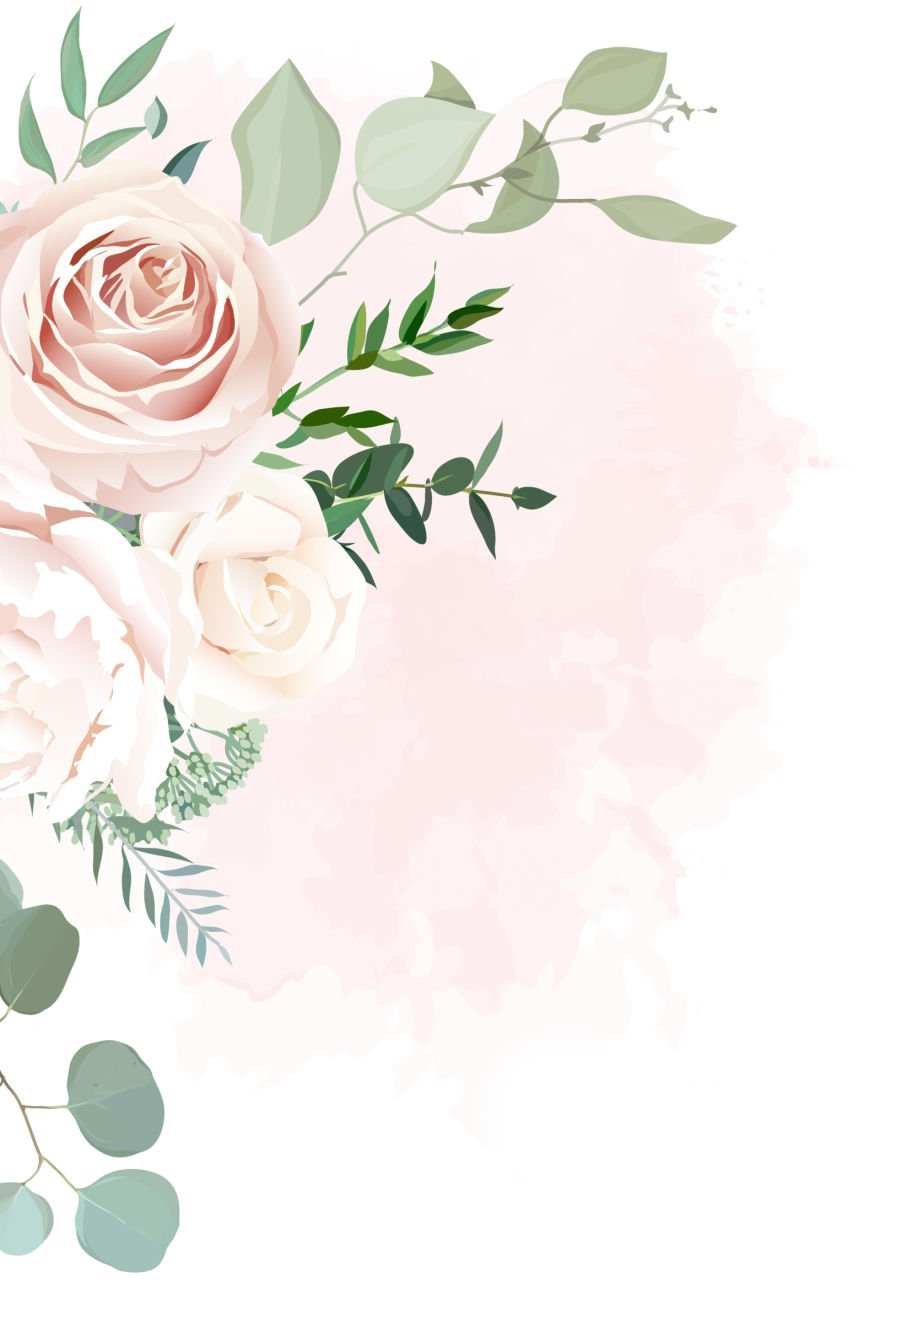
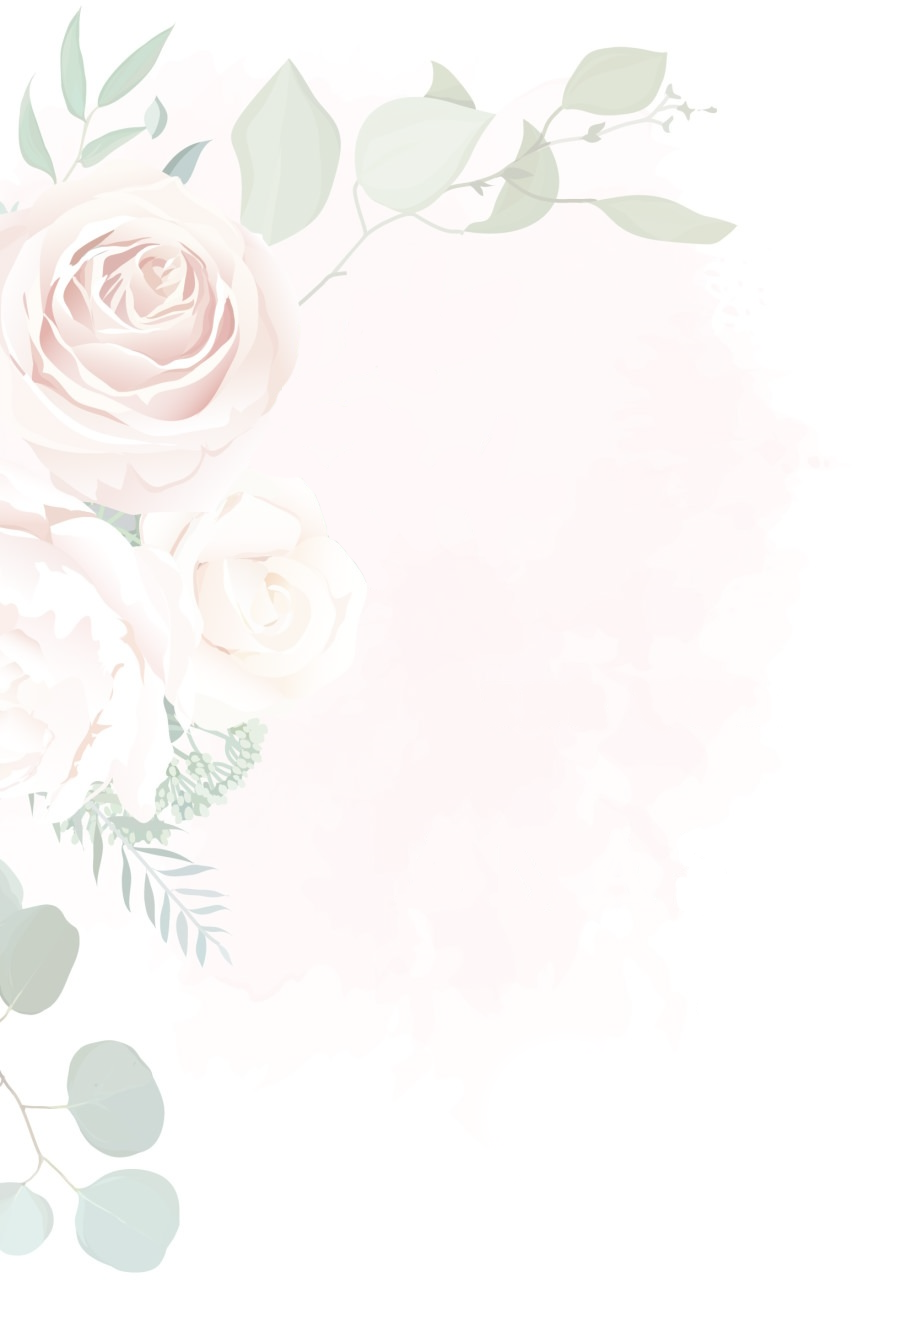
add background and loader

diff --git a/style.css b/style.css
@@ -24,6 +24,20 @@ body {
 .main-container {
   
 }
+.loader {
+  position: fixed;
+  top: 0;
+  left: 0;
+  width: 100%;
+  height: 100%;
+  background-color: #ffffffea;
+  z-index: 4444;
+  animation-name: loader-back;
+  animation-duration: 2.5s;
+  /* animation-delay: 0.5s; */
+  animation-iteration-count: 1;
+  animation-fill-mode: forwards;
+}
 .title {
   font-family: 'Casanova';
   text-align: center;
@@ -67,6 +81,34 @@ body {
 .phone-number, .geo {
   text-decoration: none;
   color: rgb(161, 158, 158); 
+}
+.fiance {
+  display: block;
+  height: 100px;
+  position: absolute;
+  top: calc(50% - 50px);
+  right: 50px;
+}
+.bride {
+  display: block;
+  height: 100px;
+  position: absolute;
+  top: calc(50% - 50px);
+  left: 50px;
+  animation-name: moving;
+  animation-duration: 2s;
+  /* animation-delay: 0.5s; */
+  animation-iteration-count: 1;
+  animation-fill-mode: forwards;
+}
+@keyframes moving {
+  from {left: 50px;}
+  to {left: calc(100% - 138px);}
+}
+@keyframes loader-back {
+  0% {opacity: 1}
+  75% {opacity: 1}
+  100% {opacity: 0}
 }
 @media (max-width: 770px) {
   body {

diff --git a/index.html b/index.html
@@ -8,6 +8,10 @@
     <meta name="viewport" content="width=device-width, initial-scale=1">
   </head>
   <body>
+    <div class="loader">
+      <img class="fiance" src="images/f.png">
+      <img class="bride" src="images/b.png">
+    </div>
     <div class="main-container">
       <div class="title">
         <div class="title-section">Свадьба Александра & Анастасии</div>
